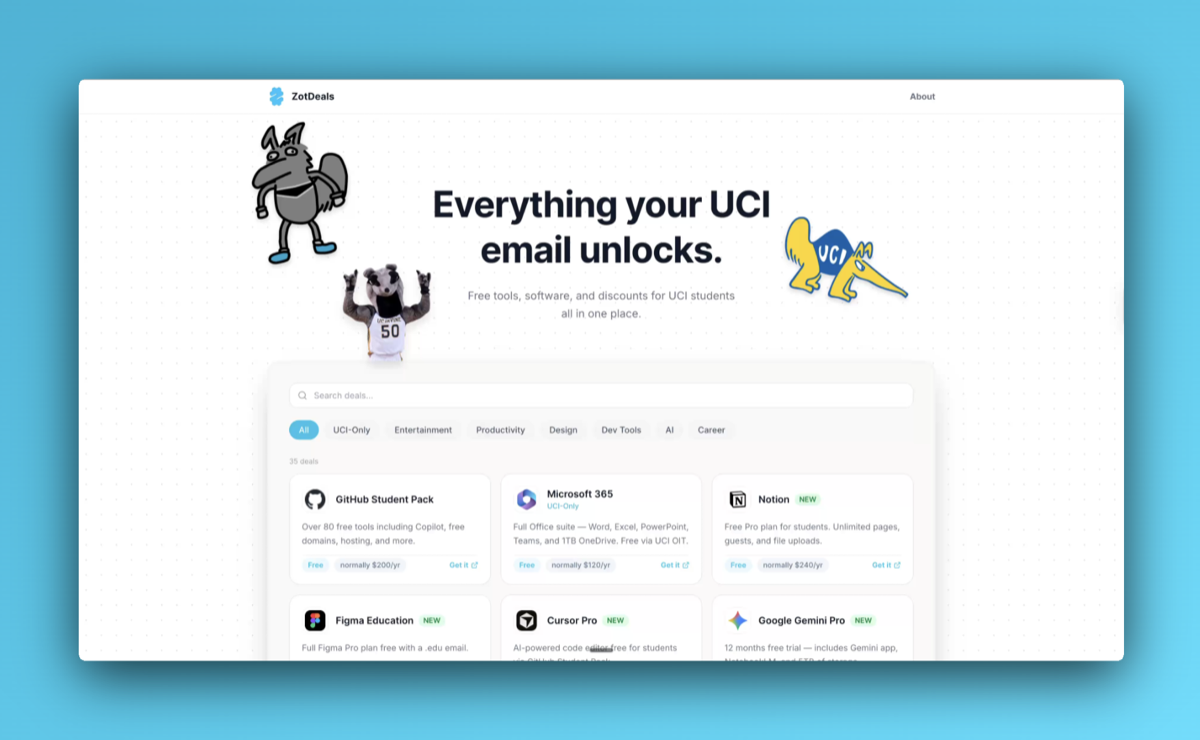
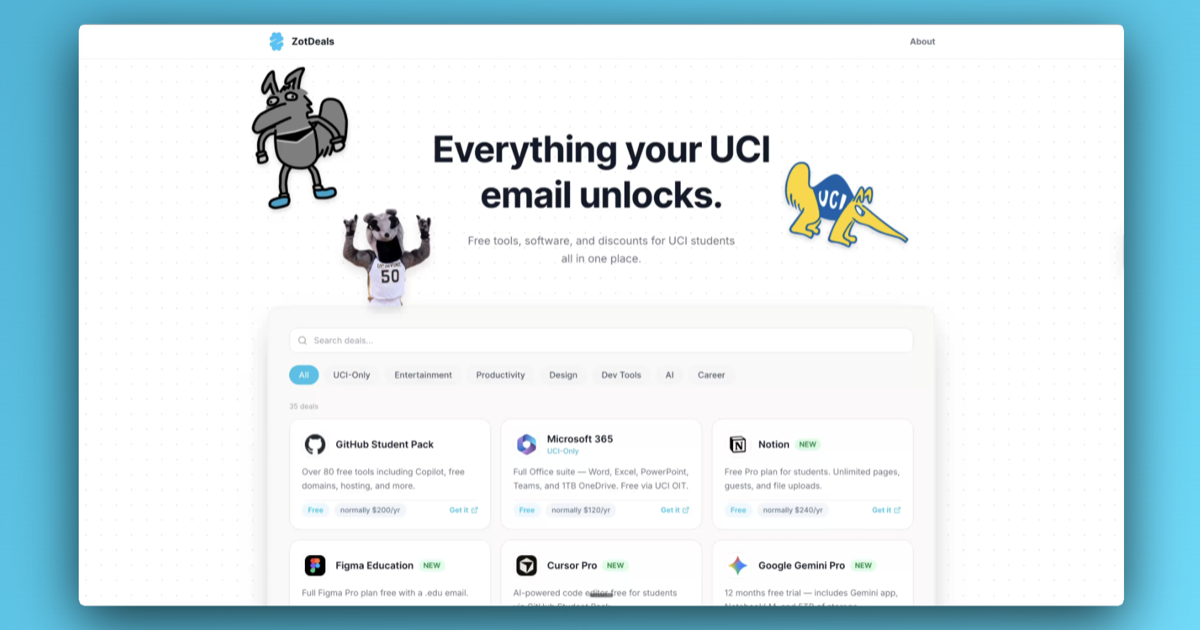
sizing issue fixed

Changed region(s): [[0.0308, 0.5127, 0.9558, 1.0], [0.0308, 0.0, 0.9558, 0.4825], [0.3392, 0.2111, 0.7708, 0.4524]]

diff --git a/app/layout.tsx b/app/layout.tsx
@@ -18,7 +18,7 @@ export const metadata: Metadata = {
     description:
       "Free stuff and student discounts for UCI students. Every deal your .edu email unlocks — 30+ free tools, subscriptions, and savings all in one place.",
     type: "website",
-    images: [{ url: "/og-image.png", width: 1200, height: 740 }],
+    images: [{ url: "/og-image.png", width: 1200, height: 630 }],
   },
   twitter: {
     card: "summary_large_image",
